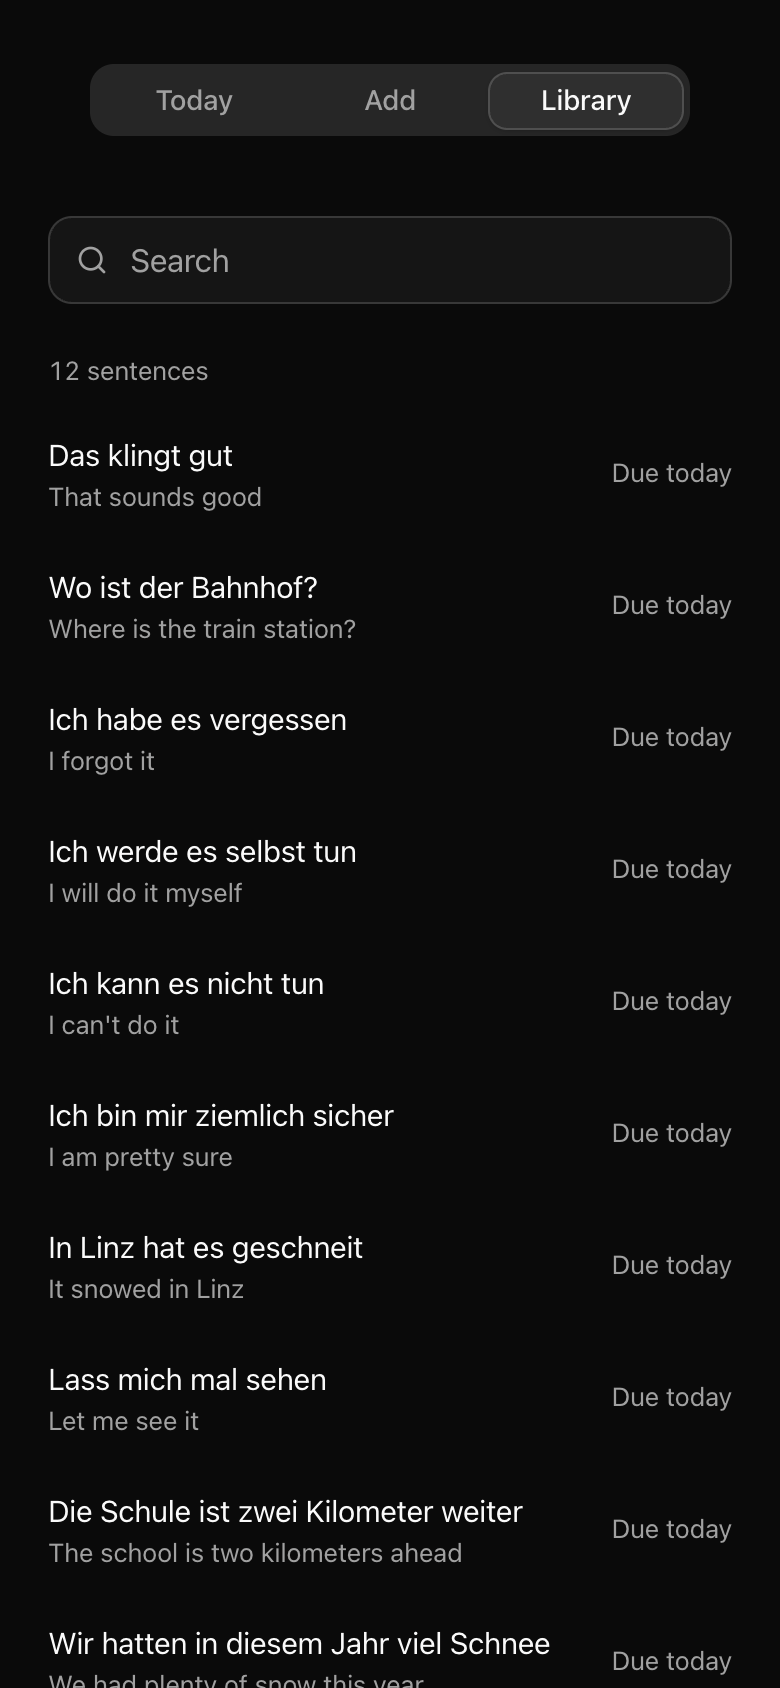
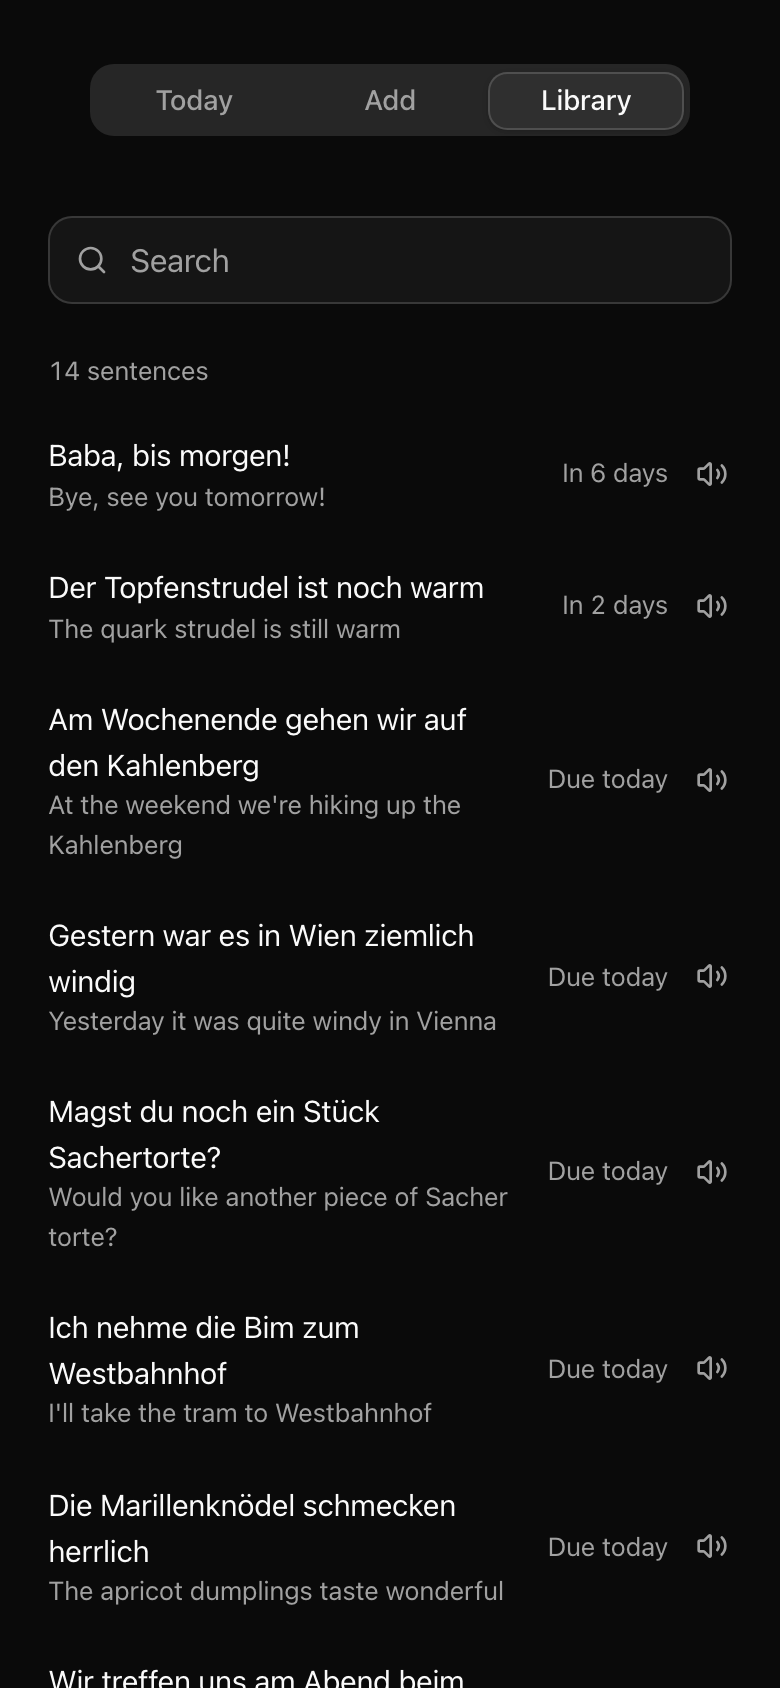
Austrian README and a MacBook screenshot
The README now leads with a MacBook shot of a review, framed on a gradient
background, above the three phone shots. Every screenshot uses Austrian
example sentences (Paradeiser, Jause, Bim, Sachertorte), and the text
mentions the Austrian voice and the listen button.

npm run screenshots rebuilds all eight images from the app, so they stay
current as the UI changes.

diff --git a/README.md b/README.md
@@ -2,6 +2,13 @@
 
 <p align="center">
   <picture>
+    <source media="(prefers-color-scheme: dark)" srcset="docs/desktop-dark.png">
+    <img src="docs/desktop-light.png" alt="Satz on a MacBook, marking Tomaten where the Austrian answer is Paradeiser" width="820">
+  </picture>
+</p>
+
+<p align="center">
+  <picture>
     <source media="(prefers-color-scheme: dark)" srcset="docs/today-dark.png">
     <img src="docs/today-light.png" alt="Today screen with 12 sentences due" width="260">
   </picture>
@@ -11,11 +18,11 @@
   </picture>
   <picture>
     <source media="(prefers-color-scheme: dark)" srcset="docs/library-dark.png">
-    <img src="docs/library-light.png" alt="Library with every sentence and when it is due" width="260">
+    <img src="docs/library-light.png" alt="Library with every sentence, when it is due, and a listen button" width="260">
   </picture>
 </p>
 
-A quiet web app for memorising German sentences. See the English, type the German from memory, and let spaced review bring each sentence back before you forget it.
+Servus! Satz is a quiet web app for memorising German sentences, the Austrian way. See the English, type the German from memory, hear it read aloud in an Austrian voice, and let spaced review bring each sentence back before you forget it. Paradeiser, not Tomaten.
 
 Live at [satz-app.vercel.app](https://satz-app.vercel.app). Private: only the owner can sign in.
 
@@ -31,10 +38,11 @@ npm run dev
 - **Add** sentences as you watch. German, Enter, English, Enter.
 - **Today** shows what is due. A correct answer pushes a sentence further out (1, 3, 7, 14, 30, then 60 days). A miss brings it back tomorrow.
 - **Library** holds everything, with search, edit, export and import.
+- **Listen** to any sentence with one click: while you type it, in the library, and after each answer.
 
 Your sentences stay in your browser. Use Export now and then to keep a backup.
 
-The live site is private. Sign-in uses Google and lets in one email address, set in Vercel as `ALLOWED_EMAIL`. Sentences are read aloud with an ElevenLabs voice, and fall back to the browser's German voice when that is not available.
+The live site is private. Sign-in uses Google and lets in one email address, set in Vercel as `ALLOWED_EMAIL`. Sentences are read aloud by Chris, an Austrian ElevenLabs voice (set `ELEVENLABS_VOICE_ID` to pick another), and fall back to the browser's German voice when that is not available.
 
 ## Test
 
@@ -42,6 +50,14 @@ The live site is private. Sign-in uses Google and lets in one email address, set
 npm test
 npm run test:e2e
 ```
+
+## Screenshots
+
+```sh
+npm run screenshots
+```
+
+Fills the app with Austrian example sentences and writes every image in `docs/`, including the MacBook shot.
 
 ## License
 
